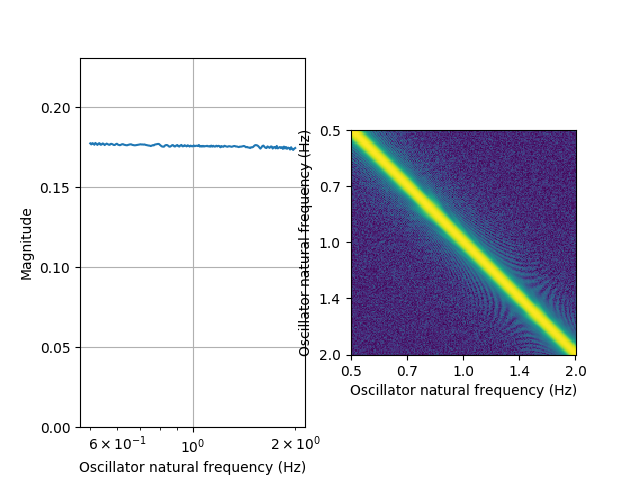
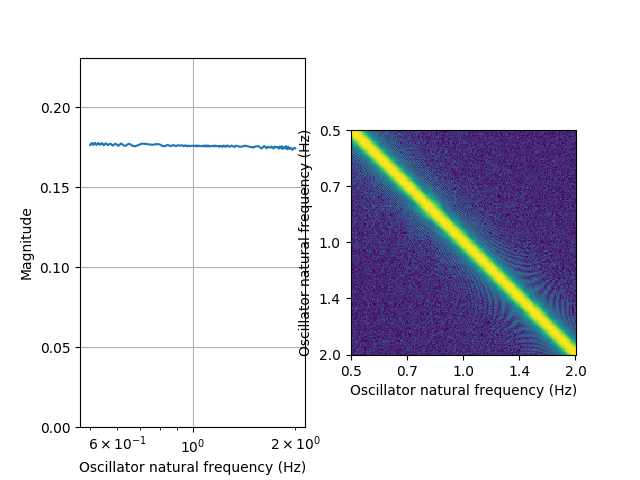
adds example 2

Changed region(s): [[0.5312, 0.3438, 0.8438, 0.75], [0.5938, 0.25, 0.9062, 0.6562], [0.1562, 0.2812, 0.4688, 0.3125]]

diff --git a/tfgrfnn/tfgrfnn.py b/tfgrfnn/tfgrfnn.py
@@ -43,6 +43,7 @@ class stimulus():
                     values = tf.constant(0, dtype=tf.complex128),
                     fs = tf.constant(1.0)):
 
+        self.name = name
         self.values = values
         self.shape = tf.shape(self.values)
         self.ntime = self.shape[0]
@@ -56,19 +57,19 @@ class connection():
     def __init__(self, name = '', 
                     source = None,
                     target = None,
-                    matrixinit = 1,
-                    learnparams = {'learntype':'nolearning',
+                    matrixinit = 1.0+1j*1.0,
+                    learnparams = None):
+
+        self.name = name
+        self.source = source
+        self.target = target
+        self.learnparams = learnparams if learnparams else {'learntype':'nolearning',
                                     'lambda_':tf.constant(0.0, dtype=tf.float64), 
                                     'mu1':tf.constant(0.0, dtype=tf.float64), 
                                     'mu2':tf.constant(0.0, dtype=tf.float64), 
                                     'epsilon':tf.constant(0.0, dtype=tf.float64), 
                                     'kappa':tf.constant(0.0, dtype=tf.float64),
-                                    'weight':tf.constant(1.0, dtype=tf.float64)}):
-
-        self.name = name
-        self.source = source
-        self.target = target
-        self.learnparams = learnparams
+                                    'weight':tf.constant(1.0, dtype=tf.float64)}
         self.matrixinit = matrixinit
         if self.learnparams['learntype'] == 'nolearning' and isinstance(self.source, stimulus):
             self.matrixinit = tf.constant(self.matrixinit, dtype=tf.complex128, shape=(self.target.nosc, self.source.nchannels))
@@ -94,16 +95,15 @@ class connection():
             self.learnparams['learntypeint'] = tf.constant(1)
 
 
-def connect(source=None, target=None, matrixinit=1,  learnparams={'learntype':'nolearning',
-                                                                    'lambda_':tf.constant(0.0, dtype=tf.float64), 
-                                                                    'mu1':tf.constant(0.0, dtype=tf.float64), 
-                                                                    'mu2':tf.constant(0.0, dtype=tf.float64), 
-                                                                    'epsilon':tf.constant(0.0, dtype=tf.float64), 
-                                                                    'kappa':tf.constant(0.0, dtype=tf.float64),
-                                                                    'weight':tf.constant(1.0, dtype=tf.float64)}):
+def connect(source=None, target=None, matrixinit=1.0+1j*1.0,  learnparams=None):
 
-    conn = connection(source=source, target=target, matrixinit=matrixinit, learnparams=learnparams)
-    target.connections.append(conn) 
+    target.connections = target.connections + [connection(source=source, target=target, matrixinit=matrixinit, learnparams=learnparams if learnparams else {'learntype':'nolearning',
+                                        'lambda_':tf.constant(0.0, dtype=tf.float64), 
+                                        'mu1':tf.constant(0.0, dtype=tf.float64), 
+                                        'mu2':tf.constant(0.0, dtype=tf.float64), 
+                                        'epsilon':tf.constant(0.0, dtype=tf.float64), 
+                                        'kappa':tf.constant(0.0, dtype=tf.float64),
+                                        'weight':tf.constant(1.0, dtype=tf.float64)})]
 
     return target
        
@@ -131,7 +131,7 @@ class Model():
 
         def scan_fn(layers_and_layers_connmats_state, time_dts_stim):
 
-            def get_next_k(time_val, layers_state, layes_connmats_state):
+            def get_next_k(time_val, layers_state, layers_connmats_state):
 
                 layers_k = [self.zfun(time_val, layer_state, layer_connmats_state, 
                                 self.layers[ilayer].connections, layers_state, **self.layers[ilayer].params)
@@ -218,10 +218,7 @@ class Model():
                 layer.nosc = layer.nosc*2
                 for conn in layer.connections:
                     conn.sourceintid = conn.source.intid
-                    if conn.sourceintid == 0 and conn.learnparams['learntypeint'] == 0:
-                        conn.matrixinit = tf.concat([tf.math.real(conn.matrixinit), tf.math.real(conn.matrixinit)], axis=0)
-                    else:
-                        conn.matrixinit = tf.concat([tf.math.real(conn.matrixinit), tf.math.imag(conn.matrixinit)], axis=0)
+                    conn.matrixinit = tf.concat([tf.math.real(conn.matrixinit), tf.math.imag(conn.matrixinit)], axis=0)
 
         layers_state = [layer.initconds for layer in self.layers]
         layers_connmats_state = [[conn.matrixinit 

diff --git a/tfgrfnn/example2.py b/tfgrfnn/example2.py
@@ -1,0 +1,44 @@
+import numpy as np
+import tensorflow as tf
+import tfgrfnn as tg
+from oscillator_types import canonical_hopf
+import time as t
+import matplotlib.pyplot as plt
+
+dur = 1.0
+dt = 0.00025
+time = tf.range(dur, delta=dt, dtype=tf.float64)
+nosc = 201
+
+s1 = tg.stimulus(name='s1', values=0.025*tf.complex(tf.math.cos(2*np.pi*100*time), 
+                                                    tf.math.sin(2*np.pi*100*time)), fs=1/dt)
+l1 = tg.oscillators(name='l1', osctype=canonical_hopf(alpha=0.01, beta1=-1.0, beta2=-10.0, epsilon=1.0), 
+                    freqspacing='log', freqlims=(50.0, 200.0), nosc=nosc, 
+                    initconds=tf.constant(0.1+1j*0.0, dtype=tf.complex128, shape=(nosc,)))
+l1 = tg.connect(source=s1, target=l1, matrixinit=1.0+1j*1.0)
+
+l2 = tg.oscillators(name='l2', osctype=canonical_hopf(alpha=-1.0, beta1=4.0, beta2=-3.0, epsilon=1.0), 
+                    freqspacing='log', freqlims=(50.0, 200.0), nosc=nosc, 
+                    initconds=tf.constant(0.1+1j*0.0, dtype=tf.complex128, shape=(nosc,)))
+l2 = tg.connect(source=l1, target=l2, matrixinit=np.eye(nosc)+1j*np.eye(nosc))
+
+GrFNN = tg.Model(name='GrFNN', layers=[l1,l2], stim=s1, time=time)
+
+tic = t.time()
+GrFNN = GrFNN.integrate()
+toc = t.time() - tic
+print(toc)
+
+plt.subplot(1,2,1)
+plt.semilogx(GrFNN.layers[0].freqs,np.abs(GrFNN.layers[0].allsteps[-1]))
+plt.ylim([0, 1.3*np.max(np.abs(GrFNN.layers[0].allsteps[-1]))])
+plt.grid()
+plt.xlabel('Oscillator natural frequency (Hz)')
+plt.ylabel('Manitude')
+plt.subplot(1,2,2)
+plt.semilogx(GrFNN.layers[1].freqs,np.abs(GrFNN.layers[1].allsteps[-1]))
+plt.ylim([0, 1.3*np.max(np.abs(GrFNN.layers[1].allsteps[-1]))])
+plt.grid()
+plt.xlabel('Oscillator natural frequency (Hz)')
+plt.ylabel('Manitude')
+plt.savefig('ex2.png')

diff --git a/tfgrfnn/example1p.py b/tfgrfnn/example1p.py
@@ -11,9 +11,9 @@ time = tf.range(dur, delta=dt, dtype=tf.float64)
 nosc = 201
 
 l1 = tg.oscillators(name='l1', osctype=canonical_hopf(alpha=1.0, beta1=-1.0, beta2=-1000.0, epsilon=1.0), 
-                    freqspacing='log', freqlims=(0.5, 2.0), nosc=nosc, initconds=tf.constant(0.01+1j*0.01, dtype=tf.complex128, shape=(nosc,)))
+                    freqspacing='log', freqlims=(0.5, 2.0), nosc=nosc, initconds=tf.constant(0.018+1j*0.0, dtype=tf.complex128, shape=(nosc,)))
 
-l1 = tg.connect(source=l1, target=l1, matrixinit=1, learnparams={'learntype':'1freq',
+l1 = tg.connect(source=l1, target=l1, matrixinit=1.0+1j*1.0, learnparams={'learntype':'1freq',
                                                                 'lambda_':tf.constant(0.001, dtype=tf.float64),
                                                                 'mu1':tf.constant(-1.0, dtype=tf.float64),
                                                                 'mu2':tf.constant(-50.0, dtype=tf.float64),

diff --git a/tfgrfnn/example1.py b/tfgrfnn/example1.py
@@ -16,7 +16,7 @@ l1 = tg.oscillators(name='l1', osctype=canonical_hopf(alpha=0.01, beta1=-1.0, be
 
 s1 = tg.stimulus(name='s1', values=0.25*tf.complex(tf.math.cos(2*np.pi*time), tf.math.sin(2*np.pi*time)), fs=1/dt)
 
-l1 = tg.connect(source=s1, target=l1, matrixinit=1)
+l1 = tg.connect(source=s1, target=l1, matrixinit=1.0+1j*1.0)
 
 GrFNN = tg.Model(name='GrFNN', layers=[l1], stim=s1, time=time)
 
